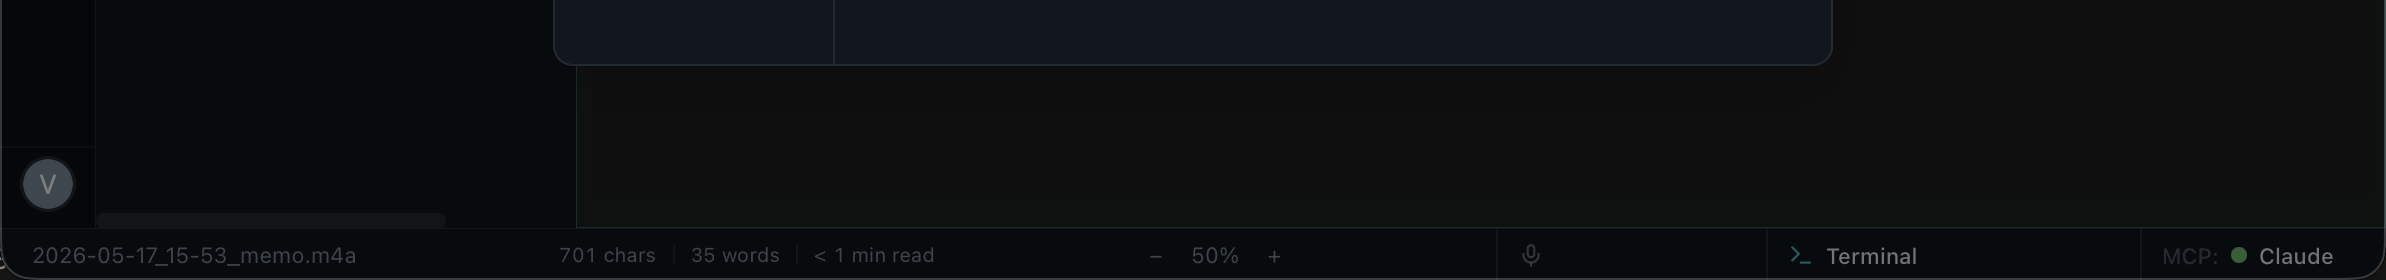
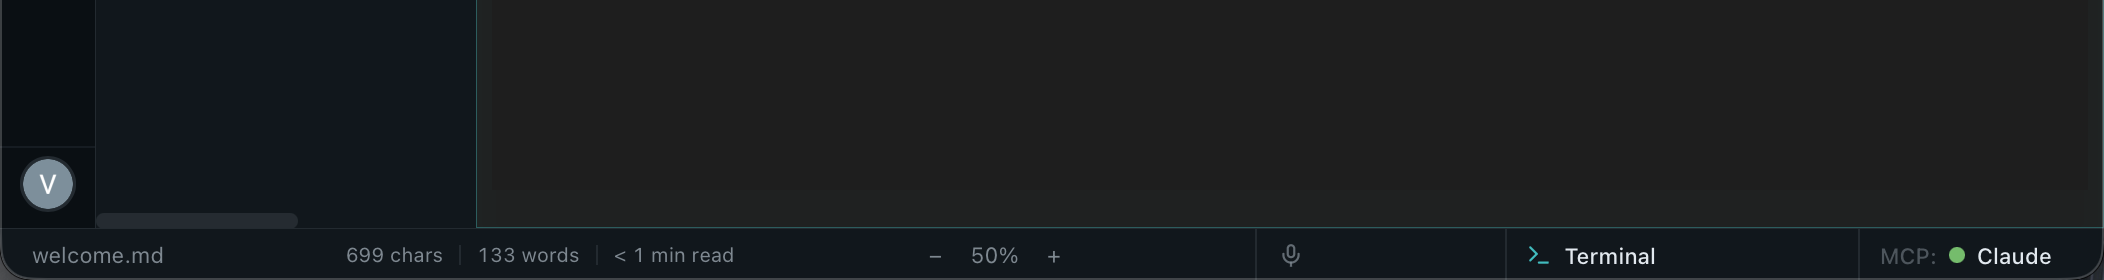
wiki: sync from main repo @ e4fc9dd
Generated by scripts/sync-wiki.sh from v1.0.9-dogfooding-ready at e4fc9dd.

diff --git a/wiki/Voice-Memos.md b/wiki/Voice-Memos.md
@@ -12,14 +12,15 @@ First time, macOS will ask for microphone permission. The dialog explains the re
 
 ## Playback player
 
-Voice memos are **attached to documents** — not stand-alone files in the viewer. The bottom **Voice Player** appears when the *active document* has one or more memos linked to it (matched by filename stem in `.htmlook-voice/`). Recording while a document is open auto-files the memo under that document.
+Voice memos are **doc-attached metadata** — the player is bound to the document, not to the audio file. The bottom **Voice Player** drawer appears when the active document has one or more memos linked to it (the link is established by recording while that document is open).
 
-- ◀ / ▶ navigate the memos linked to the active document
-- The waveform shows the loudness envelope
+- ◀ / ▶ navigate memos attached to the active document
+- Waveform shows the loudness envelope
+- Progress bar — drag the playhead to seek anywhere in the memo
 - ⌃ collapses the player (a single ▶︎ button with a badge stays until you expand again)
 - ✏ rename, ✕ delete
 
-Clicking a `.m4a` directly in the sidebar opens it as a generic file (the viewer shows "Preview not available for this file type") — the player is doc-bound, not file-bound. To preview a memo, open the document it's attached to (or use *Voice memos* in the sidebar's filters once a memo exists).
+**Clicking a `.m4a` directly in the sidebar does not open the player** — the viewer treats it as an unrecognised file type and shows a generic "Preview not available" card. To listen, open the document the memo was recorded against.
 
 ## Transcripts
 

diff --git a/wiki/Voice-Memos-ko.md b/wiki/Voice-Memos-ko.md
@@ -12,14 +12,15 @@
 
 ## 재생 플레이어
 
-음성 메모는 **문서에 attach 되는 메타** — 뷰어에서 단독으로 열리지 않습니다. 활성 *문서* 에 연결된 메모 (`.htmlook-voice/` 안의 파일명 stem 매칭) 가 있을 때 하단 **Voice Player** 등장. 문서 열어둔 상태에서 녹음하면 그 문서에 자동 attached.
+음성 메모는 **문서에 부속된 메타데이터** — 플레이어는 문서에 묶임, 오디오 파일에 묶이지 않음. 활성 문서에 메모 (그 문서 열린 상태에서 녹음된 것) 가 하나 이상 있으면 하단 **Voice Player** drawer 등장.
 
-- ◀ / ▶ 활성 문서에 연결된 메모 순환
+- ◀ / ▶ 활성 문서에 attach 된 메모 순환
 - waveform 으로 음량 envelope
+- 진행 바 — playhead 드래그로 메모 임의 시점으로 seek
 - ⌃ 플레이어 접기 (배지 달린 ▶︎ 버튼만 남음)
 - ✏ 이름 변경, ✕ 삭제
 
-사이드바에서 `.m4a` 를 직접 클릭하면 generic file 로 열려 뷰어가 "Preview not available for this file type" 표시 — 플레이어는 파일이 아닌 문서 기반. 메모를 미리듣기하려면 그것이 attach 된 문서를 여세요.
+**사이드바에서 `.m4a` 직접 클릭은 플레이어를 띄우지 않음** — 뷰어가 인식 안 되는 파일로 보고 "Preview not available" 카드를 띄움. 들으려면 그 메모가 녹음된 원래 문서를 여세요.
 
 ## Transcript
 

diff --git a/wiki/README.md b/wiki/README.md
@@ -5,4 +5,4 @@
 Start at **[Home](Home.md)** (English) or **[Home-ko](Home-ko.md)** (한국어).
 
 Source-of-truth: `deep-on/htmlook` at `docs/wiki/` — mirrored here by
-`scripts/sync-wiki.sh` (last mirror: 4a4ec41).
+`scripts/sync-wiki.sh` (last mirror: e4fc9dd).

diff --git a/wiki/Viewer-ko.md b/wiki/Viewer-ko.md
@@ -17,7 +17,7 @@
 | `.json` `.csv` `.tsv` | 표 + 트리 뷰 | 보기 |
 | 이미지 | 네이티브 뷰어 + zoom · fit · pan | — |
 | 비디오 | 자체 플레이어 (아래) | — |
-| 오디오 (`.m4a` 등) | Generic file fallback ("Preview not available"). 음성 메모는 **문서 기반 Voice Player** drawer 로 재생 — [음성 메모](Voice-Memos-ko.md) 참조. | — |
+| 오디오 (`.m4a` 등) | "Preview not available" 카드. 음성 메모는 문서에 묶인 **Voice Player** drawer 로 재생 — 메모가 녹음된 원래 문서를 여세요 ([음성 메모](Voice-Memos-ko.md)). | — |
 | 소스 코드 | syntax-highlighted | Source 뷰에서 편집 |
 | 미지정 | hex / text fallback | — |
 

diff --git a/wiki/Viewer.md b/wiki/Viewer.md
@@ -17,7 +17,7 @@
 | `.json` `.csv` `.tsv` | Table + tree view | View only |
 | Images | Native viewer with zoom, fit, pan | — |
 | Video | Custom player (see below) | — |
-| Audio (`.m4a` etc.) | Generic file fallback ("Preview not available"). Voice memos play through the **doc-bound Voice Player** drawer — see [Voice memos](Voice-Memos.md). | — |
+| Audio (`.m4a` etc.) | Generic "Preview not available" card. Voice memos play through the doc-bound **Voice Player** drawer — open the document the memo was recorded against (see [Voice memos](Voice-Memos.md)). | — |
 | Source code | Syntax-highlighted code | Source view to edit |
 | Unknown | Hex / text fallback | — |
 